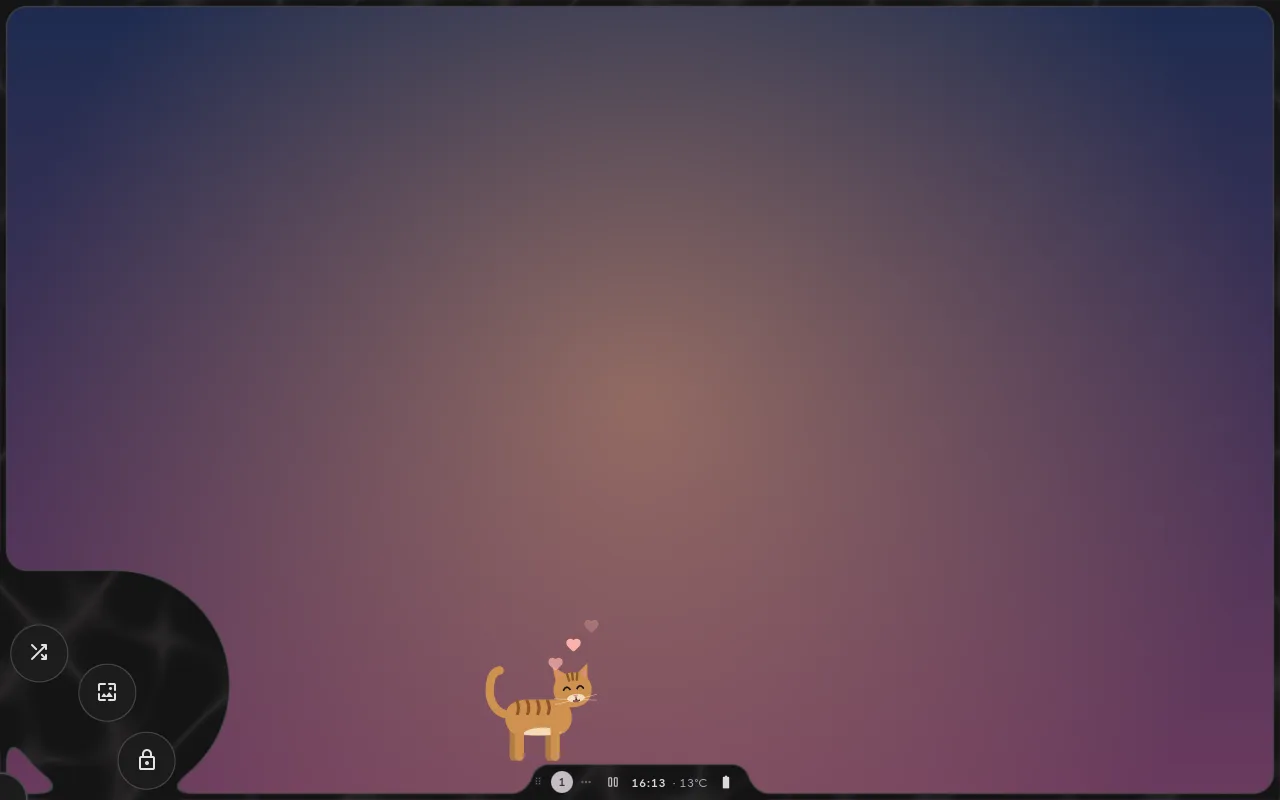
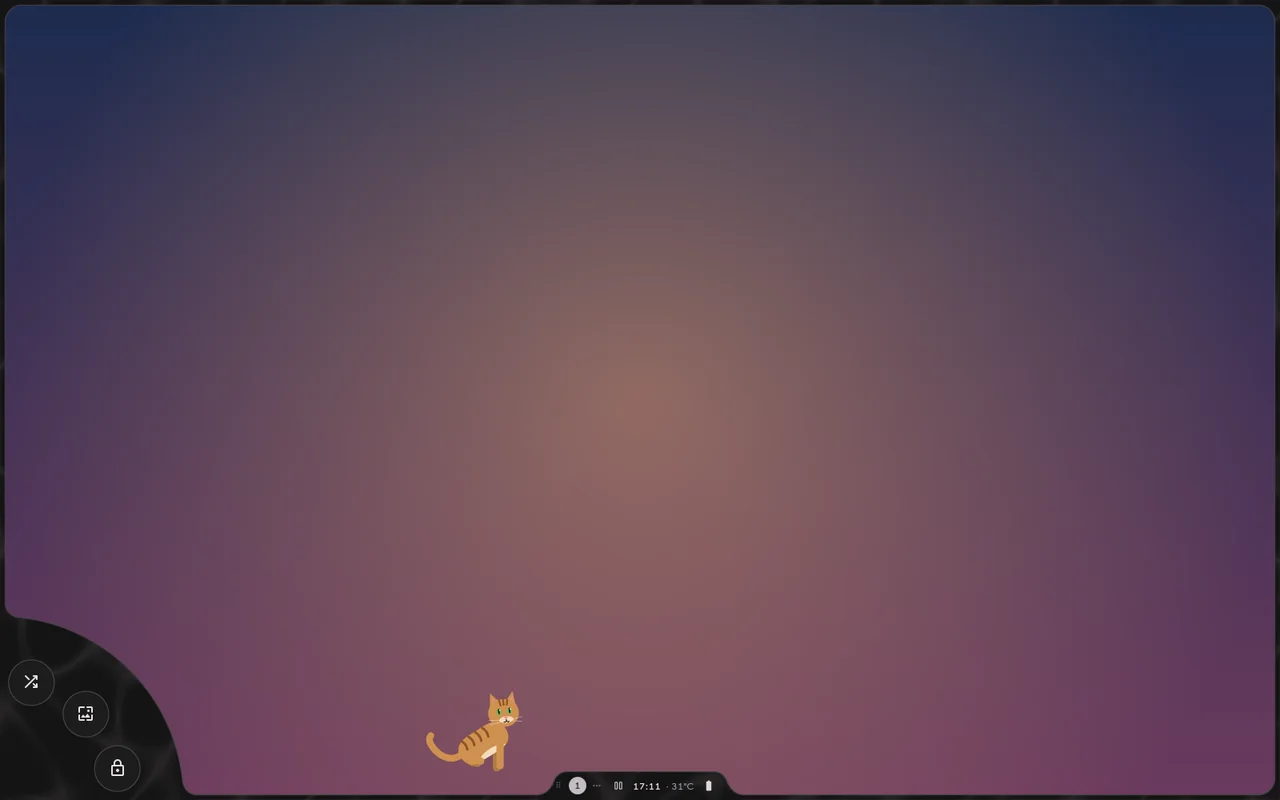
Corner revolver: a disc centred on the corner in connected mode too; no hub
In connected mode the frame drew the revolver as an ordinary edge panel: an
s x s square off the left edge, rounded, so its centre sat s/2 in from the
corner and its edge connector bulged below it (a lumpy shape, the chambers'
arc not matching it). It now registers as a detached surface: a 2s circle
centred on the screen corner, joined to the frame by a fillet, as Anserin's
cylinder meets its frame. The hub circle at the corner (which Anserin
doesn't have) read as a stray lobe: gone. Docs screenshot retaken.

diff --git a/modules/revolver/Revolver.qml b/modules/revolver/Revolver.qml
@@ -164,26 +164,24 @@ Scope {
                         radius: root.radius
                         color: Appearance.colors.colLayer0
                     }
-                    // The hub.
-                    Rectangle {
-                        width: 56; height: 56; radius: 28
-                        x: (win.left ? 0 : win.width) - 28; y: (win.top ? 0 : win.height) - 28
-                        color: Appearance.colors.colLayer2
-                        border.width: 2; border.color: Appearance.colors.colOutlineVariant
-                    }
                 }
                 ConnectedSurfaceLease {
                     key: "revolver:" + perScreen.screenName
                     kind: "panel"; edge: win.left ? "left" : "right"; priority: 6
                     screenName: perScreen.screenName
                     active: body.visible
+                    // A disc centred on the screen corner (a quarter of it on screen), as the
+                    // unconnected body draws it, joined to the frame by a fillet. As an ordinary
+                    // edge panel the frame drew an s×s square from the edge, rounded: its centre
+                    // sat s/2 in from the corner, with an edge connector bulging below it.
                     readonly property real s: root.radius * body.scale
-                    x: win.left ? 0 : (perScreen.modelData?.width ?? 0) - s
-                    y: win.top ? 0 : (perScreen.modelData?.height ?? 0) - s
-                    w: s; h: s
+                    detached: true
+                    neckK: 16
+                    x: (win.left ? 0 : (perScreen.modelData?.width ?? 0)) - s
+                    y: (win.top ? 0 : (perScreen.modelData?.height ?? 0)) - s
+                    w: 2 * s; h: 2 * s
                     surfaceRadius: s
                     progress: body.scale
-                    omitStartConnector: win.top; omitEndConnector: !win.top
                 }
 
                 // ── The chambers ──
